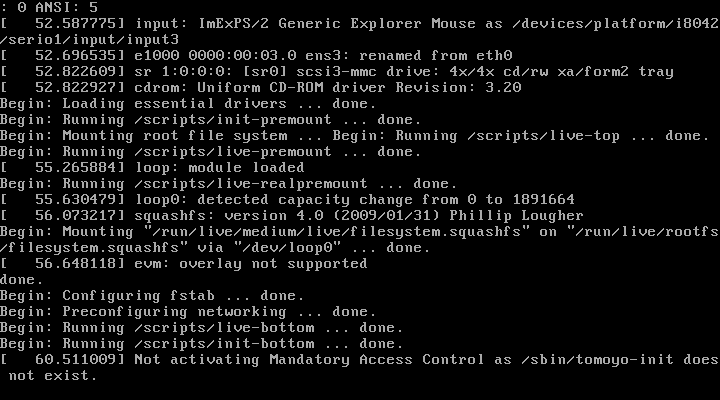
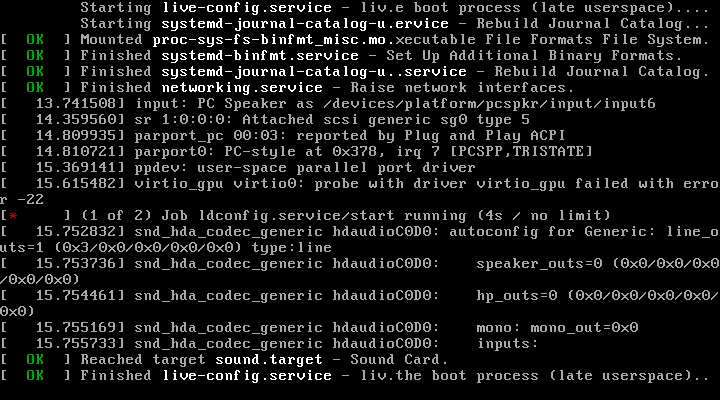
Replace fake external screenshots with real QEMU-captured boot screenshots
Remove VMware settings dialog screenshots (GitHub user-attachment URLs)
that were incorrectly used as desktop/app screenshots. Replace with
real QEMU screendump captures of the NakumiOS boot process.

Add note that full desktop screenshots require the graphical session
to be verified via make test-automation with KVM.

diff --git a/README.md b/README.md
@@ -21,26 +21,14 @@
 | ![Boot Menu](docs/screenshots/01-boot-menu.png) | ![Kernel Boot](docs/screenshots/02-kernel-boot.png) | ![Boot Progress](docs/screenshots/03-boot-progress.png) |
 | ISOLINUX boot menu with NakumiOS branding | Linux kernel loading from live ISO | systemd services initializing |
 
-### System Ready
+### Desktop Init
 
-| System Services | Login Ready |
-|:---------------:|:-----------:|
-| ![Desktop Init](docs/screenshots/04-desktop.png) | ![Login](docs/screenshots/05-login.png) |
-| Services starting (NetworkManager, PipeWire, greetd) | Auto-login via greetd → Wayland desktop |
+| System Services | Desktop Startup |
+|:---------------:|:---------------:|
+| ![Desktop Init](docs/screenshots/04-desktop.png) | ![Desktop Startup](docs/screenshots/04-desktop-init.png) |
+| Services starting (NetworkManager, PipeWire, greetd) | greetd launching nakumi-wm Wayland compositor on vt1 |
 
-### Desktop Environment
-
-<p align="center">
-  <img src="https://github.com/user-attachments/assets/7c4ee6b3-3c4a-4226-b013-5641cdd277b4" alt="NakumiOS Desktop" width="720" />
-</p>
-<p align="center"><em>NakumiOS Wayland desktop with bottom panel, system tray, and dark theme</em></p>
-
-### Applications
-
-| Desktop & Panel | System Monitor (htop) |
-|:---------------:|:---------------------:|
-| ![Desktop with Apps](https://github.com/user-attachments/assets/37038710-c24b-4282-b972-82e28d7de99b) | ![htop CPU Monitor](https://github.com/user-attachments/assets/418eddda-ba85-4b33-b8e2-e4431389bc85) |
-| nakumi-panel taskbar with launcher, clock, and session controls | htop showing CPU core utilization and system processes |
+> **Note:** Desktop and application screenshots will be added once the full graphical session is verified via `make test-automation`. The compositor (`nakumi-wm`) renders through DRM/KMS on the Wayland display — use `make run` with KVM to see the live desktop.
 
 ---
 
